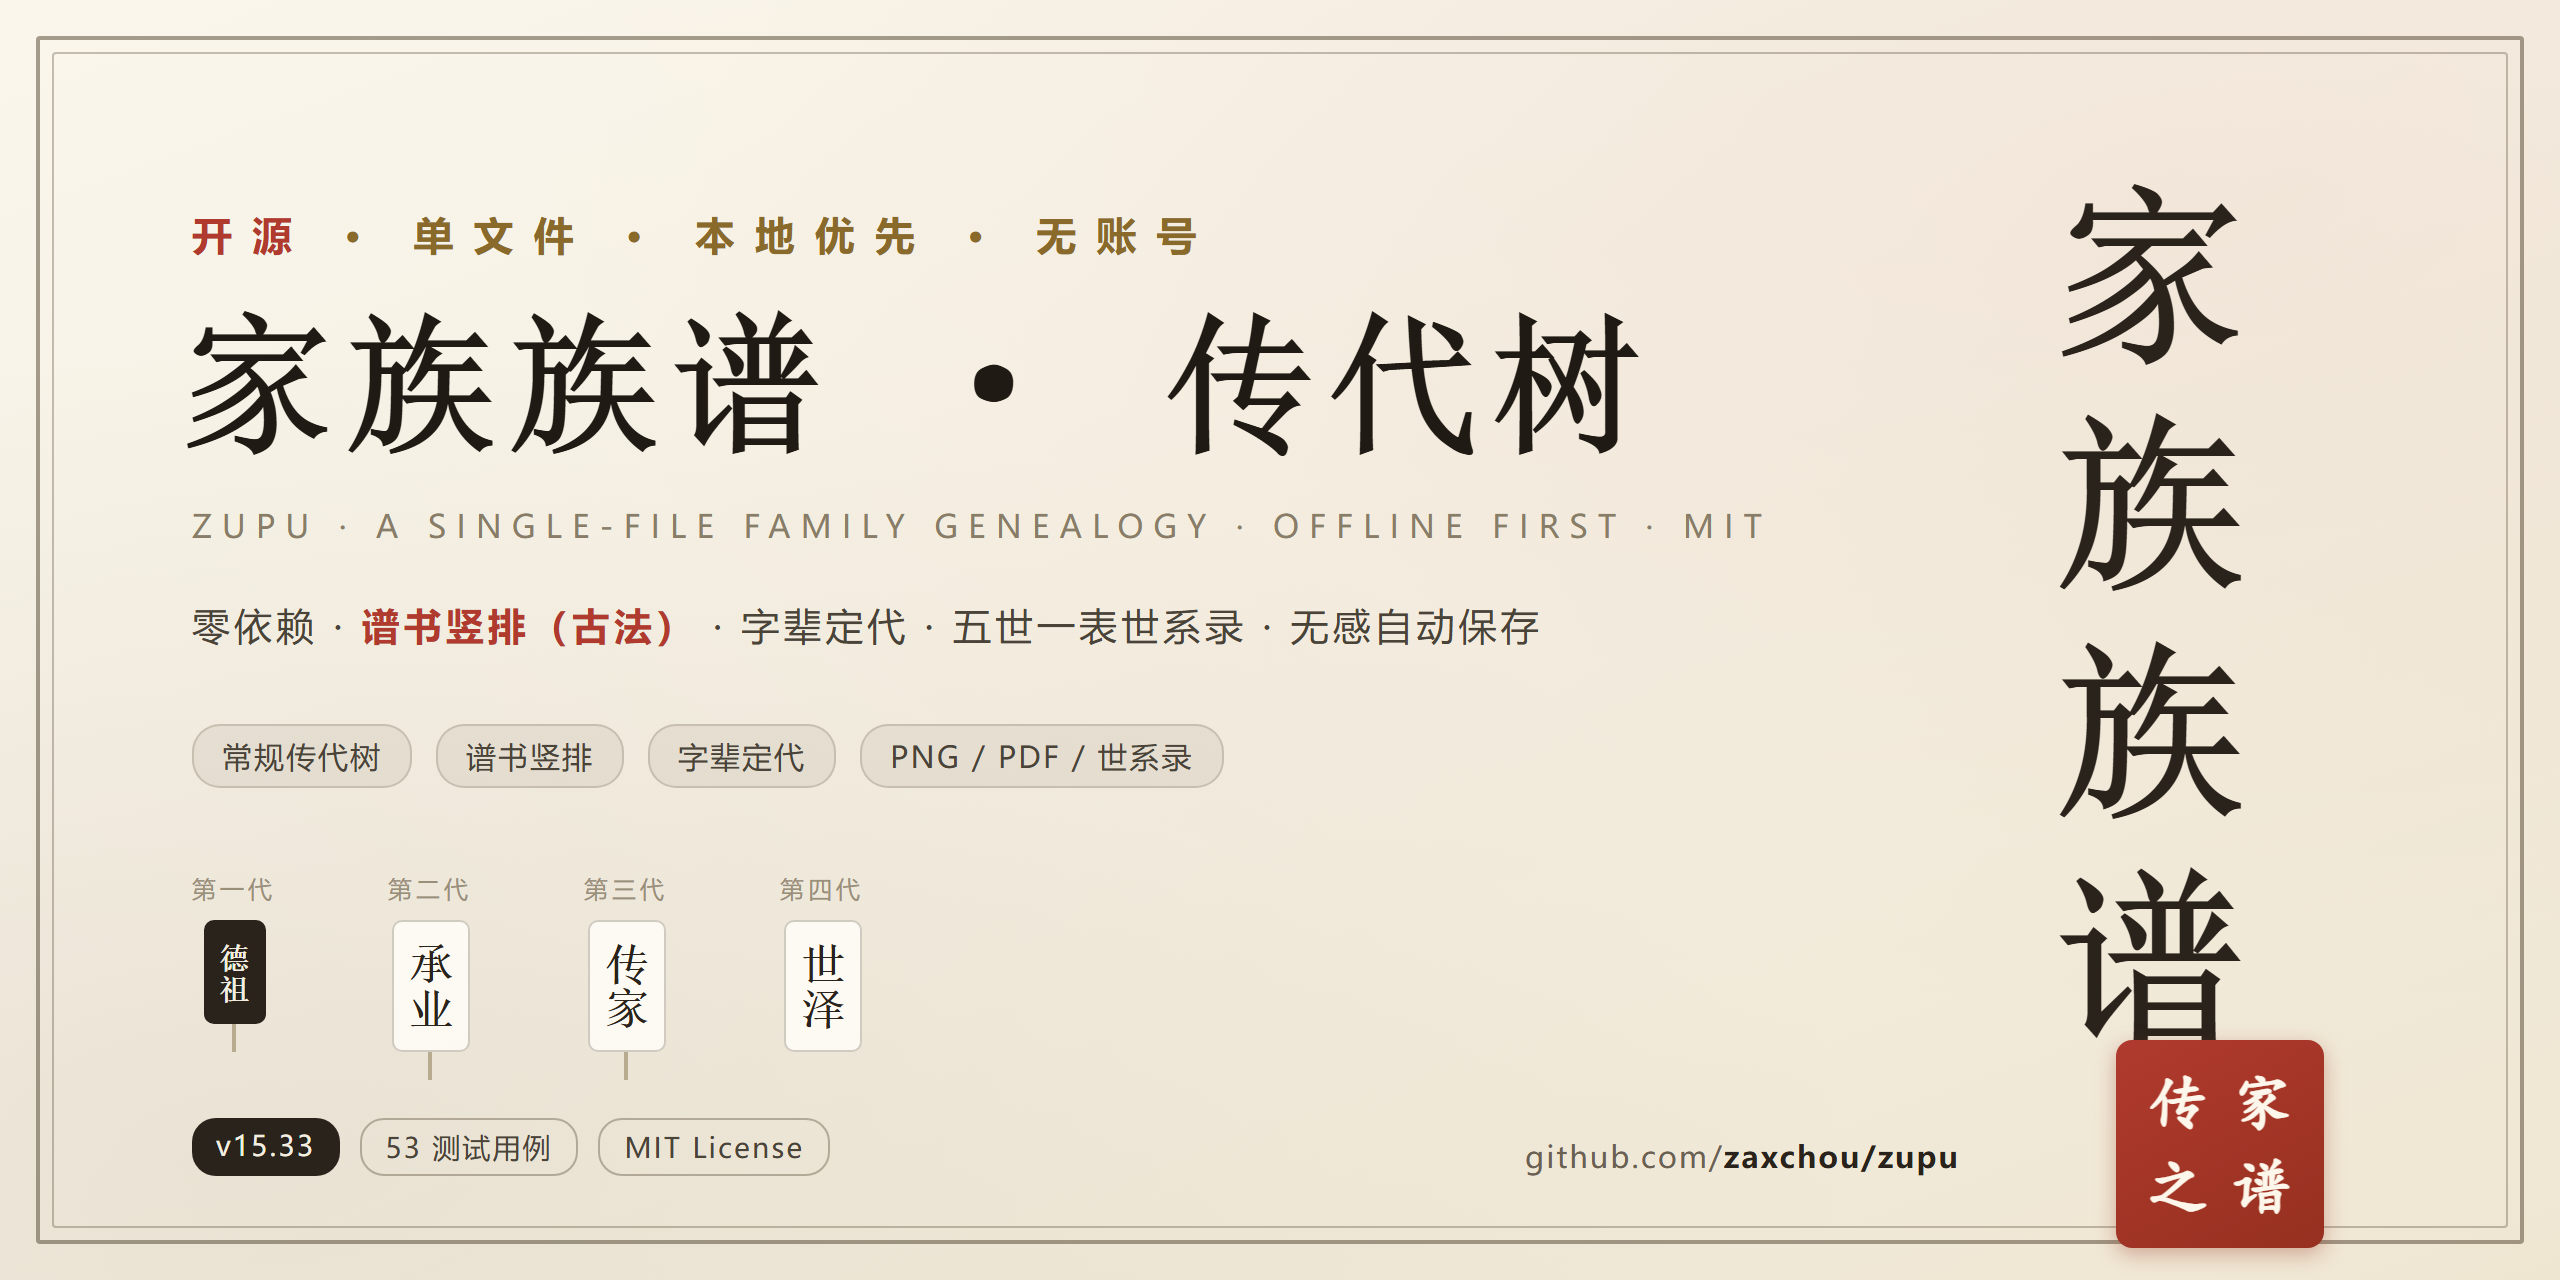
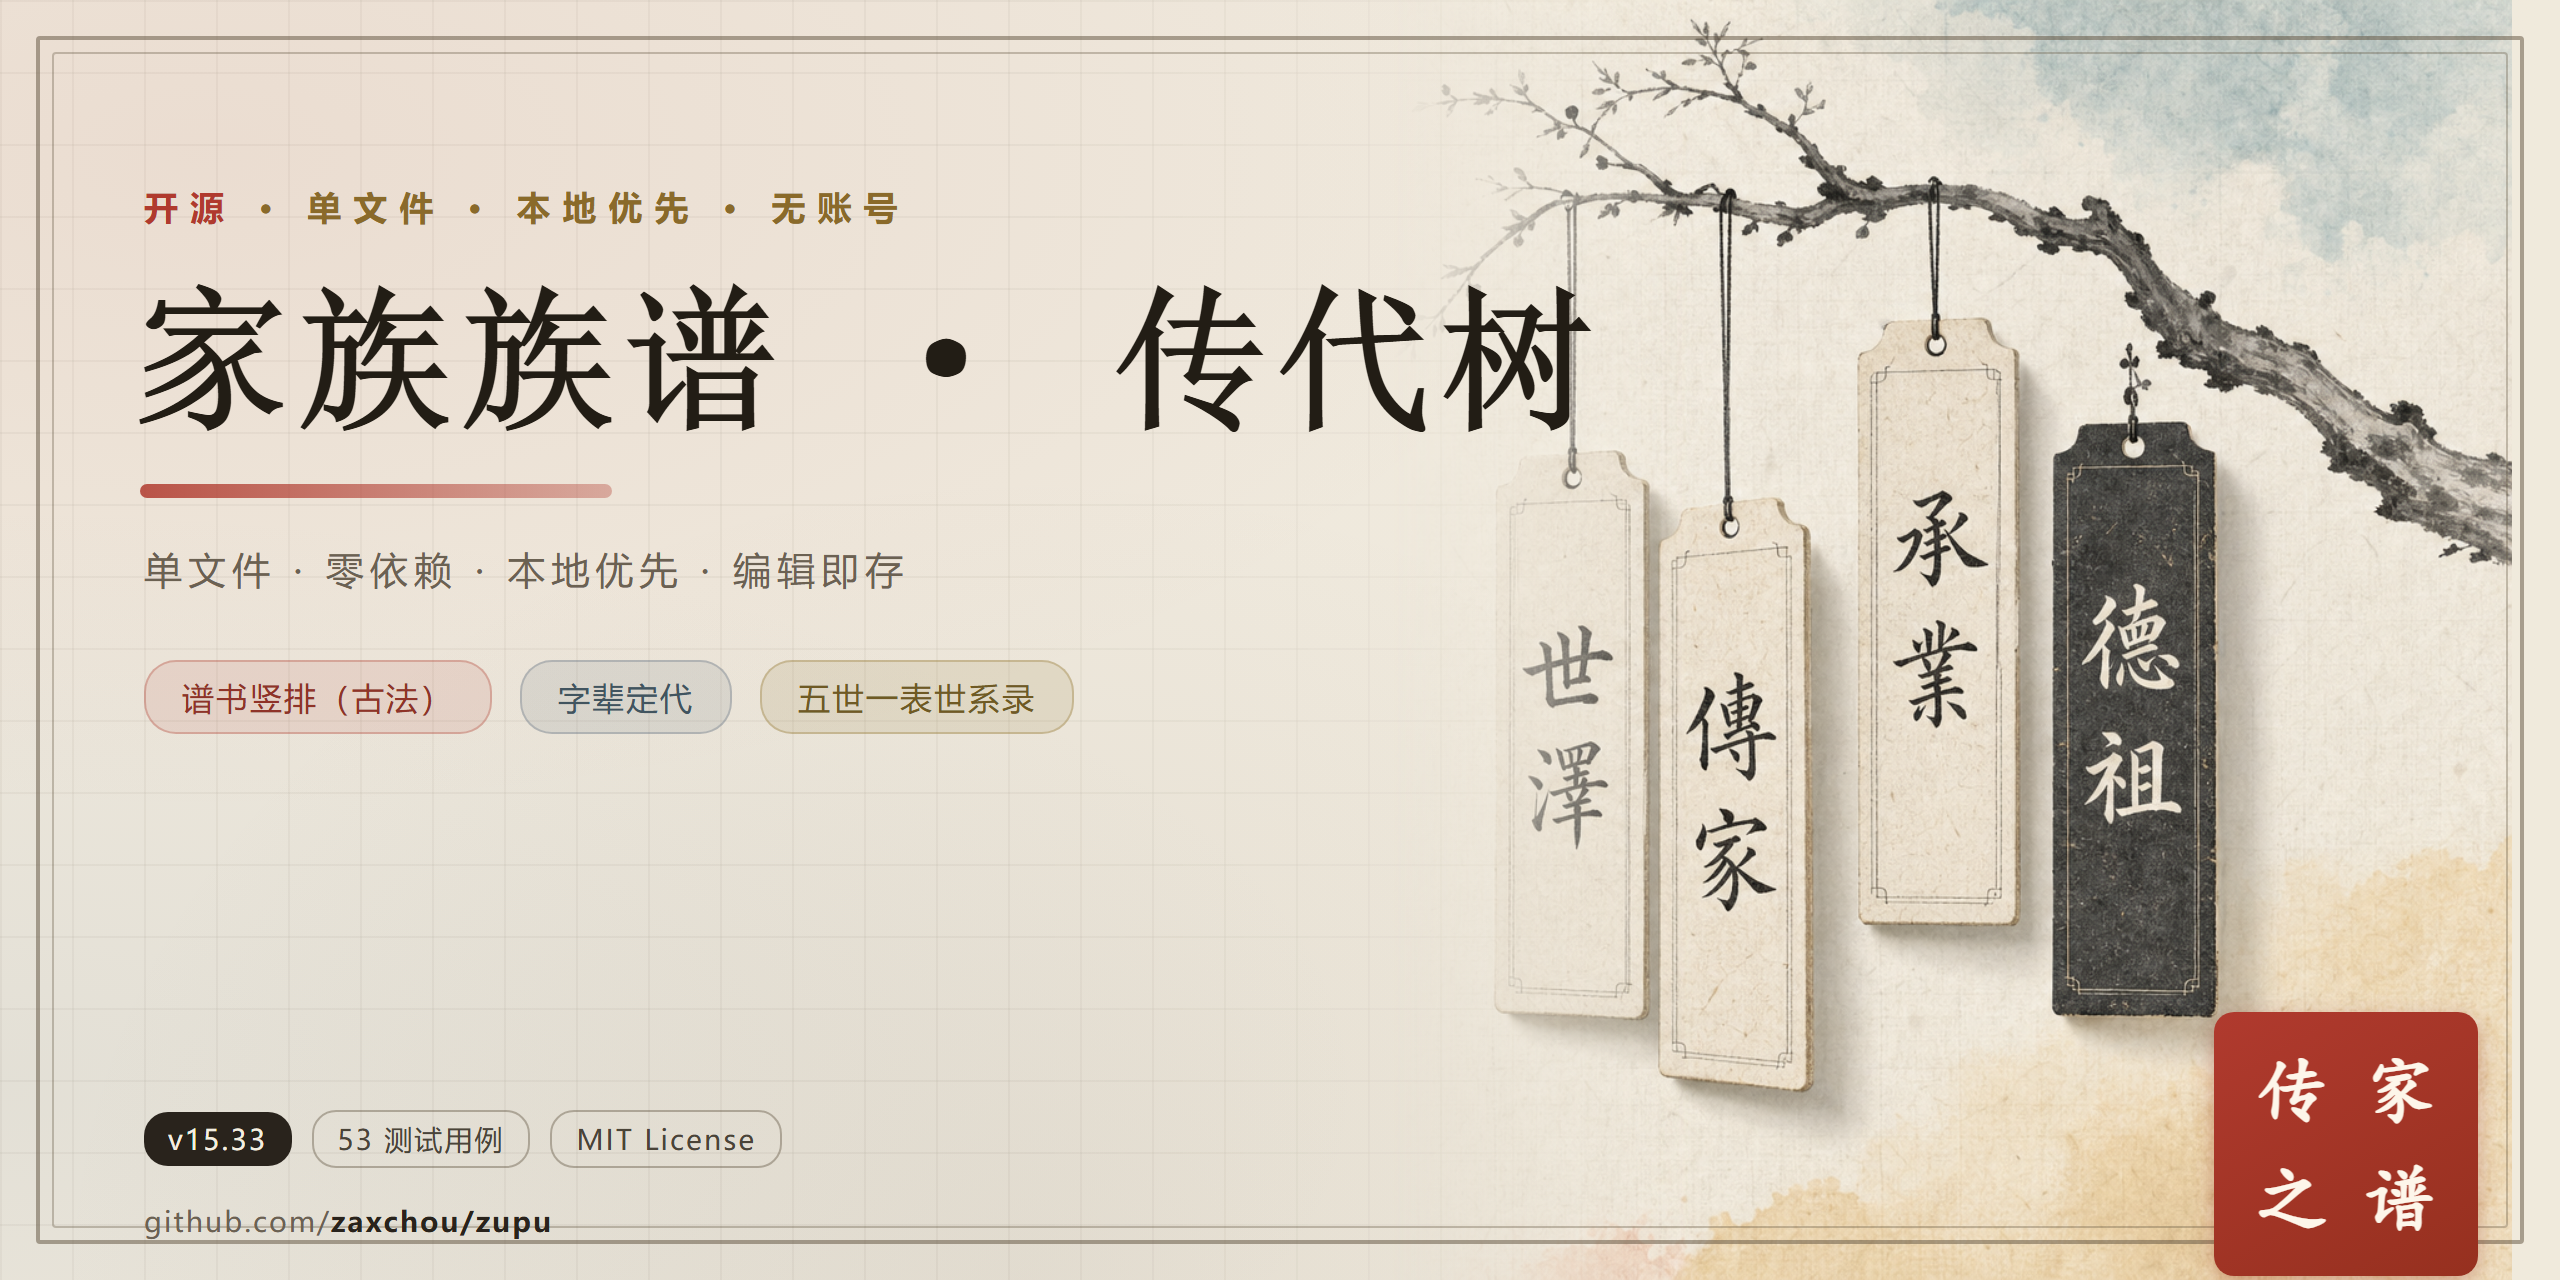
封面 v2：AI 水墨挂牌图 + HTML 文字层合成（右侧艺术渐隐融入纸底，印章盖住底图乱码印）

diff --git a/docs/_cover-v2.html b/docs/_cover-v2.html
@@ -1,0 +1,88 @@
+<!doctype html>
+<html lang="zh">
+<head>
+<meta charset="utf-8">
+<style>
+  *{margin:0;padding:0;box-sizing:border-box}
+  html,body{width:1280px;height:640px;overflow:hidden}
+  body{
+    font-family:"PingFang SC","Microsoft YaHei",sans-serif;
+    color:#29231c;position:relative;
+    /* 左侧纸底：与水墨图的纸色无缝衔接 */
+    background:
+      radial-gradient(ellipse at 8% 12%, rgba(176,58,46,.07), transparent 42%),
+      radial-gradient(ellipse at 40% 100%, rgba(93,80,60,.08), transparent 45%),
+      radial-gradient(ellipse at 0% 85%, rgba(120,140,150,.10), transparent 38%),
+      linear-gradient(90deg,#efe9dd 0%,#efe9dd 46%,#f0eadc 100%);
+  }
+  /* 右侧水墨艺术（AI 生成）：左缘渐隐融入纸底 */
+  .art{
+    position:absolute;top:0;right:0;width:585px;height:640px;
+    background:url('_art-ink.png') no-repeat;
+    background-size:auto 640px;
+    background-position:-719px 0;   /* 取原画 x∈[1150,2048] 区域（挂牌与枝干） */
+    -webkit-mask-image:linear-gradient(90deg,transparent 0,#000 26%);
+            mask-image:linear-gradient(90deg,transparent 0,#000 26%);
+  }
+  /* 细网格（左半区） */
+  .grid{position:absolute;inset:0;
+    background-image:linear-gradient(rgba(93,80,60,.05) 1px,transparent 1px),
+                     linear-gradient(90deg,rgba(93,80,60,.05) 1px,transparent 1px);
+    background-size:36px 36px;
+    -webkit-mask-image:linear-gradient(90deg,#000 40%,transparent 72%);
+            mask-image:linear-gradient(90deg,#000 40%,transparent 72%);
+  }
+  .frame-outer{position:absolute;inset:18px;border:2.5px solid rgba(93,80,60,.5);border-radius:2px;pointer-events:none}
+  .frame-inner{position:absolute;inset:26px;border:1px solid rgba(93,80,60,.32);border-radius:2px;pointer-events:none}
+
+  .kicker{position:absolute;left:72px;top:92px;font-size:17px;letter-spacing:6px;color:#8a6a2a;font-weight:600}
+  .kicker b{color:#b03a2e}
+  h1{position:absolute;left:66px;top:136px;font-family:"Songti SC","SimSun",serif;
+     font-size:78px;font-weight:700;color:#221d15;letter-spacing:2px;white-space:nowrap}
+  .stroke{position:absolute;left:70px;top:242px;width:236px;height:7px;border-radius:4px;
+          background:linear-gradient(90deg,rgba(176,58,46,.85),rgba(176,58,46,.35))}
+  .sub{position:absolute;left:72px;top:272px;font-size:19px;letter-spacing:3px;color:#6b6152}
+  .chips{position:absolute;left:72px;top:330px;display:flex;gap:14px}
+  .chip{font-size:16px;padding:7px 18px;border-radius:16px;letter-spacing:1px;border:1px solid transparent}
+  .chip.r{background:rgba(176,58,46,.10);border-color:rgba(176,58,46,.30);color:#8f3328}
+  .chip.t{background:rgba(93,110,125,.12);border-color:rgba(93,110,125,.32);color:#41545f}
+  .chip.g{background:rgba(150,120,52,.13);border-color:rgba(150,120,52,.35);color:#6f5a24}
+  .foot{position:absolute;left:72px;bottom:56px;display:flex;gap:10px;align-items:center}
+  .tag{font-size:14px;padding:4px 12px;border-radius:12px;background:#29231c;color:#f4eee0;letter-spacing:1px}
+  .tag.o{background:transparent;border:1px solid rgba(93,80,60,.4);color:#4a4438}
+  .github{position:absolute;left:72px;bottom:20px;font-size:14px;color:#6b6152;letter-spacing:1px}
+  .github b{color:#29231c}
+
+  /* 印章：压在画面右下（尺寸与位置精确盖住底图里的乱码印） */
+  .seal{position:absolute;right:41px;bottom:2px;width:132px;height:132px;
+    background:linear-gradient(150deg,#b03a2e,#96301f);
+    border-radius:10px;display:grid;grid-template-columns:1fr 1fr;place-items:center;
+    box-shadow:0 3px 10px rgba(150,48,31,.35);padding:12px;z-index:5}
+  .seal span{font-family:"KaiTi","STKaiti","SimSun",serif;font-weight:700;
+    font-size:36px;color:#fdf6ea;line-height:1}
+</style>
+</head>
+<body>
+  <div class="grid"></div>
+  <div class="art"></div>
+  <div class="frame-outer"></div>
+  <div class="frame-inner"></div>
+
+  <div class="kicker"><b>开源</b> · 单文件 · 本地优先 · 无账号</div>
+  <h1>家族族谱 · 传代树</h1>
+  <div class="stroke"></div>
+  <div class="sub">单文件 · 零依赖 · 本地优先 · 编辑即存</div>
+  <div class="chips">
+    <div class="chip r">谱书竖排（古法）</div>
+    <div class="chip t">字辈定代</div>
+    <div class="chip g">五世一表世系录</div>
+  </div>
+
+  <div class="foot">
+    <div class="tag">v15.33</div><div class="tag o">53 测试用例</div><div class="tag o">MIT License</div>
+  </div>
+  <div class="github">github.com/<b>zaxchou/zupu</b></div>
+
+  <div class="seal"><span>传</span><span>家</span><span>之</span><span>谱</span></div>
+</body>
+</html>

diff --git a/handoff.md b/handoff.md
@@ -313,7 +313,7 @@ with sync_playwright() as p:
 | v15.31 | **问题修复与文档一致性整理（2026-08-29，全仓库审查后集中处理）**：①**删除字辈/谱序「跨候选补齐」逻辑**——开源后内嵌种子是通用演示数据，用户主动清空的字辈表刷新后被演示字辈复活（t_zibei_cleared_stays_cleared 回归）；②**demo 标记随真实编辑摘除**（pushHistory 里 delete treeData.demo）——点背景关向导后录自家谱，刷新不再复扰（t_wizard_nag_stops_after_real_edit）；③**保存失败示警**——_lastSaveOk + save-fail 红灯「未能保存」，且 updateSaveState 移到 saveData 之后（顺序 bug：原指示灯显示的是上一次结果）（t_autosave_save_fail_visible 用 Storage.prototype.setItem 抛错模拟）；④favicon 周→族（通用化漏网）；⑤文档一致性：CHANGELOG 补 v15.31 且开源化归属改 v15.29–v15.30（原误标 v15.29）、README 徽章 v15.31、LICENSE zax→zaxchou、封面重制（v15.31/50 用例/2x）、.gitignore 去掉已改名文件的过时条目并新增 Thumbs.db 与 *-备份-*.json 防护（用户本机真实备份落在工作区，绝不入库）、删除过期快照 家族族谱-思维导图.md。新 3 用例改写 1 用例，全套 11 模块 50 用例（当前版本） |
 | v15.32 | **多语言版本（2026-08-29，用户要求做英文/日文版并更新多语言 README）**：①`tools/build_i18n.py`——从中文母本 `index.html` 精确子串替换生成 `index-en.html` / `index-ja.html`，每条替换带次数断言，全部失配集中报告且不写文件（漂移探测器：母本演进后重跑即知漏翻）；②英文版：UI 全译，示例谱用**世代名**（Arthur/James/Robert/Michael，名字含世代名→字辈匹配照常工作），numToCn→阿拉伯数字、genLabel→「Gen N」、女→♀、嗣→ad、止→dsp、设置去汉字选项、bookSpouse 默认关；日文版：UI 全译，示例谱用单姓「林」家（保证姓氏识别/只报名语义正确），廿卅卌→二十三十四十，RANK_WORDS 長次三…，其余汉字概念（字/号/嗣/止/堂号）日文共用；③**CJK 守卫进母本**：spouseDisplay 遇非中日文名直接返回（罗马字名不再生成「X氏Y」乱码）；④两语言文件残留校验：EN 剔除注释后 CJK 仅剩 CS_SURN 复姓表与「氏」逻辑（数据级，保留）；⑤t_i18n 双冒烟（向导/添加成员/世代角标/顶栏图例无中文），runner 12 模块 52 用例；⑥踩坑：工具调用/Edit 里 `
 ` 是真实换行而表文件里是字面反斜杠+n，改续行缩进必须先 grep 实际字节；替换串吞结尾引号会造成 SyntaxError（addChild prompt 两语言各踩一次），语法错误用 window.onerror lineno 定位；⑦README 三语互链 + README.en.md / README.ja.md，Release zip 含三语言文件。⑧用户确认「不要语言切换，要独立语言单独文件」——应用本无切换器，但发现三文件共用 localStorage（中文数据会漏进英文界面），改为各语言独立存储键（zupu_data_v4_en/_ja + cfg 同理）并加测试断言。⑨封面也按语言分开：tools/build_covers.py 从中文源生成 _cover-en/_cover-ja（英文 Georgia 衬线 + FAMILY|TREE 书脊式双列竖标题 + ZUPU 印；日文明朝体 + 家系図竖题 + 家系図譜印），README 各挂各语封面。全套 12 模块 52 用例（当前版本） |
-| v15.33 | **新增繁體中文版（2026-08-29，用户要求再加繁体中文）**：①`tools/build_i18n.py` 新增 build_hant——OpenCC s2twp 整文件转换（代码全 ASCII 不受影响，注释/示例谱一并转换保持四语同构），叠加独立存储键（zupu_data_v4_hant / zupu_cfg_v1_hant）、lang=zh-Hant、用语校正（賬號→帳號）；哨兵断言（儲存/檔案/字輩/家族族譜 必须出现、简体词必须消失）；②t_i18n 新增 zh-Hant 冒烟（嚮導/儲存燈/檔案選單/示例譜繁體/添加成員/獨立儲存鍵），53 用例；③封面四语言：build_covers.py 版本升 v15.33/53 用例（幂等 bump），新增繁体封面（PingFang TC/JhengHei + PMingLiU 明体，傳家之譜印），四张 PNG 重制；④README.zh-Hant.md（台湾用语全文）+ 四份 README 互链/徽章/下载指引/四语清单；⑤发布 v15.33：四个语言单文件资产（无完整包）。⑥用户反馈英文版不要古法纵排：英文封面改全横排（右侧 FAMILY/TREE 两行右对齐横排大标题替代书脊式竖排，迷你树名字牌改横排铭牌）；应用本体默认视图本就是横版（vertical:false），竖排（古法）仅作为可选项保留。全套 12 模块 53 用例（当前版本） |
+| v15.33 | **新增繁體中文版（2026-08-29，用户要求再加繁体中文）**：①`tools/build_i18n.py` 新增 build_hant——OpenCC s2twp 整文件转换（代码全 ASCII 不受影响，注释/示例谱一并转换保持四语同构），叠加独立存储键（zupu_data_v4_hant / zupu_cfg_v1_hant）、lang=zh-Hant、用语校正（賬號→帳號）；哨兵断言（儲存/檔案/字輩/家族族譜 必须出现、简体词必须消失）；②t_i18n 新增 zh-Hant 冒烟（嚮導/儲存燈/檔案選單/示例譜繁體/添加成員/獨立儲存鍵），53 用例；③封面四语言：build_covers.py 版本升 v15.33/53 用例（幂等 bump），新增繁体封面（PingFang TC/JhengHei + PMingLiU 明体，傳家之譜印），四张 PNG 重制；④README.zh-Hant.md（台湾用语全文）+ 四份 README 互链/徽章/下载指引/四语清单；⑤发布 v15.33：四个语言单文件资产（无完整包）。⑥用户反馈英文版不要古法纵排：英文封面改全横排（右侧 FAMILY/TREE 两行右对齐横排大标题替代书脊式竖排，迷你树名字牌改横排铭牌）；应用本体默认视图本就是横版（vertical:false），竖排（古法）仅作为可选项保留。⑦封面 v2（用户觉得旧版不够美，用豆包按我给的 prompt 生成了水墨挂牌图）：新管线 docs/_cover-v2.html——右侧裁用 AI 水墨艺术（_art-ink.png，左缘渐隐融入纸底），左侧 HTML 文字层（标题/红线/chips/版本/github），CSS 印章 132px 精确盖住底图乱码印；cover.png 已换成 v2 合成；注意 _cover-v2.html 内版本号是硬编码（v15.33/53），升版本时需同步；繁体版可复用同一底图（名牌本为繁体），英/日维持衬线版。全套 12 模块 53 用例（当前版本） |
 ---
 
 *交接完毕。有问题先看 §8 踩坑记录，再改代码；每改一处跑一遍 §9 回归。*
